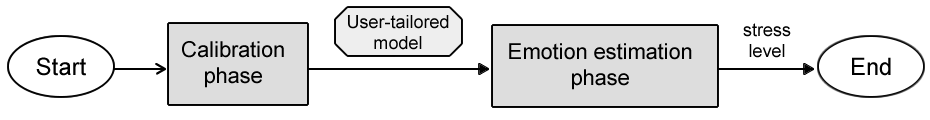
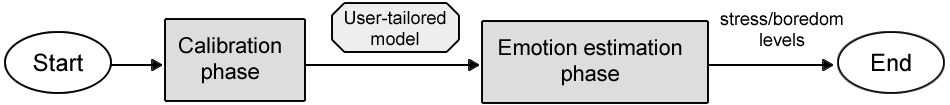
Add more love to the introduction chapter

Changed region(s): [[0.0, 0.0, 0.9978, 1.0], [0.5925, 0.6, 0.686, 0.8]]

diff --git a/texts/introduction.tex b/texts/introduction.tex
@@ -33,41 +33,45 @@ In summary, a significant part of those studies focus on models trained from dat
 
 \section{Research aim}
 
-This research presents an approach for remotely detecting the changes in stress and boredom levels of a player during the interaction with a game. Figure \ref{fig:research-aim-general} illustrates the general structure. The process is based on a non-contact, multifactorial analysis of user signals, e.g. HR and facial expressions, obtained from a video stream via computer vision. The foundation of the emotion detection process is based on the construction of a user-tailored machine learning model, trained with information obtained from the user while he/she played a set of games in a novel calibration phase. The model uses the remotely obtained signals from the user in conjunction with the calibration data to detect the player's changes regarding stress and boredom levels in any other game.
+This research presents an approach for remotely detecting the changes in stress and boredom levels of a player during the interaction with a game. The process, whose general structure is illustrated in Figure \ref{fig:research-aim-general}, is composed of two main phases: a calibration and an emotion estimation phase. In the calibration phase, the user plays a set of carefully designed games, named calibration games, that act as emotion elicitation sources. During this phase, the user signals elicitated from the interaction with the games, e.g. HR and facial expressions, are remotely acquired and used to train a user-tailored model. This model is the foundation to detect the stress and boredom levels of that particular user in any other game. In the emotion estimation phase, the user interacts with any ordinary game, e.g. a serious game, while his/her signals are remotely acquired and fed into the previously trained user-tailored model. The model outputs the current levels of stress and boredom for that user in that game.
 
 \begin{figure}[h!]
     \centering
     \includegraphics[width=\textwidth]{figures/research-aim-general.png}
-    \caption{General structure proposed for remote detection of stress levels of players during interaction with games}
+    \caption{General structure proposed for remote detection of stress and boredom levels of players during interaction with games.}
     \label{fig:research-aim-general}
 \end{figure}
 
-The process starts with a novel calibration phase, which is composed of a set of emotion elicitation games. Each of those games are casual-themed and carefully designed to trigger two distinct emotions, i.e. boredom and stress, featuring a progressive transition between them as illustrated by Figure \ref{fig:calibration-game-linear}. At the begining of the game, the difficulty level is significantly low and the user is required to perform few or no actions. The games are designed in a way that the user is not able to increase the pace of the gameplay nor make it faster based on personal skills. As a consequence the user is forced to play a low-paced gameplay, which leads to an emotional state of boredom. As times progresses, the pace of the gameplay and its difficulty level increase lineraly. The increase happens at fixed time intervals, e.g. every 60 seconds. At some point in time, which is different for each user depending on gaming skills and personal preferences, the pace of the gameplay and the difficulty level will be overwhelming, leading the user to an emotional state of stress. As the difficulty level continues to increase, the stress level of the user will also increase. Finally the difficulty level will increase until the point where the user is unable to couple with the game, which will lead to consecutive mistakes in the game that will eventually terminate it, e.g. heathbar of the main character reaches zero.
-
-\begin{figure}[h!]
-    \centering
-    \includegraphics[width=0.7\textwidth]{figures/calibration-game-linear.png}
-    \caption{Progressive transition between emotional states of boredom and stress in the calibration games according to the their level of difficulty}
-    \label{fig:calibration-game-linear}
-\end{figure}
-
-The user-tailored machine learning model is trained according to the process presented in Figure \ref{fig:user-tailored-calibration}. Each user will play the previously described calibration games while being recorded by a camera. Computer vision is used to process the video feed and remotely extract signals from the user, such as HR and facial actions. Those signals are used as input to train a machine learning model for that particular user (user-tailored model). Since the calibration games are designed to trigger specific emotions and vary them over time, the collected information will contain a detailed variation profile of the person being analyzed, including the changes of each signal and the theoretically known emotional state the user is at the moment. If a person has a better response to a certain physiological signal instead of another, e.g. HR over facial expressions, then the variation of that signal will account more weight in the training of the model. Since the training process is completely based on the signals of a single user, nuances and individual behavior are likely to be registered and learned. The calibration phase needs to be performed once per person.
+The process is based on a non-contact, multifactorial analysis of user signals obtained from a video stream via computer vision. The principal of the emotion detection phase is based on a user-tailored machine learning model, which is trained with information obtained from the user while he/she played a set of games in the calibration phase. The user-tailored machine learning model is trained according to the process presented in Figure \ref{fig:user-tailored-calibration}. Each user plays a set of calibration games while being recorded by a camera. Computer vision is used to process the video feed and remotely extract signals from the user, such as HR and facial actions. Those signals are used as input to train the machine learning model for that particular user (user-tailored model).
 
 \begin{figure}[h]
     \centering
     \includegraphics[width=\textwidth]{figures/user-tailored-calibration.png}
-    \caption{Current state of this research. The thesis chapters are coupled with the research objetives they cover.}
+    \caption{Calibration phase composed of emotion elicitation games (calibration games) and remote acquisition of signals from the user. The result of this phase is a user-tailored model used to detect emotions.}
     \label{fig:user-tailored-calibration}
 \end{figure}
 
-After the calibration phase, the person can play any other game and be monitored, as illustrated by Figure \ref{fig:user-tailored-use}. As the user plays any other game, signals are remotely acquired via computer vision. Those signals are used as input to the trained model of that particular person, which produces as a result an estimation of the emotional state regarding stress and boredom for that person in that game. The analysis process relies on the same remotely aquired signals and the predictions of the model according to the training performed during the calibration phase.
+The games used in the calibration phase act as emotion elicitation sources. Each of those games are casual-themed and carefully designed to trigger two distinct emotions, i.e. boredom and stress, featuring a progressive transition between them as illustrated by Figure \ref{fig:calibration-game-linear}. At the begining of the game, the difficulty level (green line) is significantly low and the user is required to perform few or no actions. The games are designed in a way that the user is not able to increase the pace of the gameplay nor make it faster based on personal skills. As a consequence the user is forced to play a low-paced gameplay, which leads to an emotional state of boredom (blue curve). As times progresses, the pace of the gameplay and its difficulty level increase lineraly. The increase happens at fixed time intervals, e.g. every 60 seconds. At some point in time, which is different for each user depending on gaming skills and personal preferences, the pace of the gameplay and the difficulty level will be overwhelming, leading the user to an emotional state of stress (red curve). As the difficulty level continues to increase, the stress level of the user will also increase. Finally the difficulty level will increase until the point where the user is unable to couple with the game, which will lead to consecutive mistakes in the game that will eventually terminate it, e.g. heathbar of the main character reaches zero.
+
+\begin{figure}[h!]
+    \centering
+    \includegraphics[width=0.7\textwidth]{figures/calibration-game-linear.png}
+    \caption{Progression of the level of difficulty of a calibration game over time along with the corresponding variations of the emotional states of stress and boredom experienced by the user.}
+    \label{fig:calibration-game-linear}
+\end{figure}
+
+The mentioned calibration games are designed to trigger specific emotions and vary them over time, so the remotely collected information from the user during the calibration phase contains a detailed variation profile of the person being analyzed, including changes of each signal and the theoretically known emotional state of the user at that moment. If a person has a better response to a certain physiological signal instead of another, e.g. HR over facial expressions, then the variation of that signal accounts more weight in the training of the model. Since the training process is completely based on the signals of a single user, nuances and individual behavior are likely to be registered and learned. The calibration phase needs to be performed once per person.
+
+After the calibration phase, the person can play any other ordinary game and be monitored in an emotion estimation phase, as illustrated by Figure \ref{fig:user-tailored-use}. As the user plays the game, signals are remotely acquired via computer vision. Those signals are used as input to the trained user-tailored model of that particular person, which produces as a result an estimation of the emotional state regarding stress and boredom for that person in that game. The process relies on the same remotely aquired signals with the addition of the predictions of the model according to the training performed during the calibration phase.
 
 \begin{figure}[h]
     \centering
     \includegraphics[width=\textwidth]{figures/user-tailored-use.png}
-    \caption{Current state of this research. The thesis chapters are coupled with the research objetives they cover.}
+    \caption{Emotion estimation phase. Remotely acquired signals from the user are fed into a user-tailored model that ouputs the stress/boredom levels of the user during the interaction with an ordinary game.}
     \label{fig:user-tailored-use}
 \end{figure}
+
+Stated the user has a trained user-tailored model, the emotion estimation phase can be performed for any game as many times as desired. The model uses the remotely obtained signals from the user in conjunction with the calibration data to detect the player's changes regarding stress and boredom levels in any other game.
 
 %According to previous research, the use of games as a emotional triggering mechanism is a feasible approach. Additionally an user-tailored model is a more efficient approach than a group-tailored model for the detection of emotional changes in users.
 
